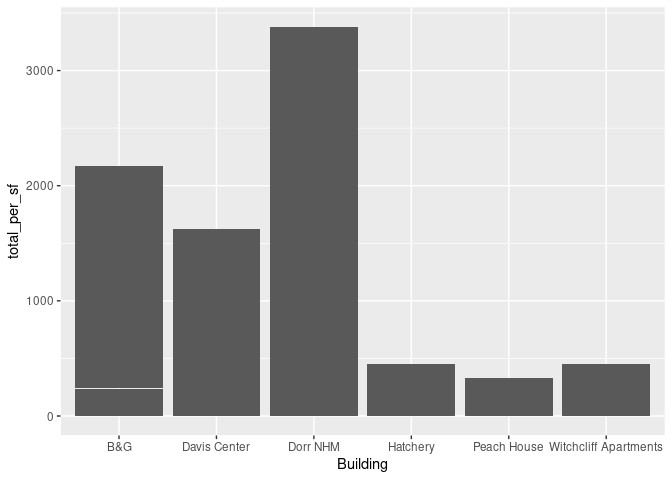
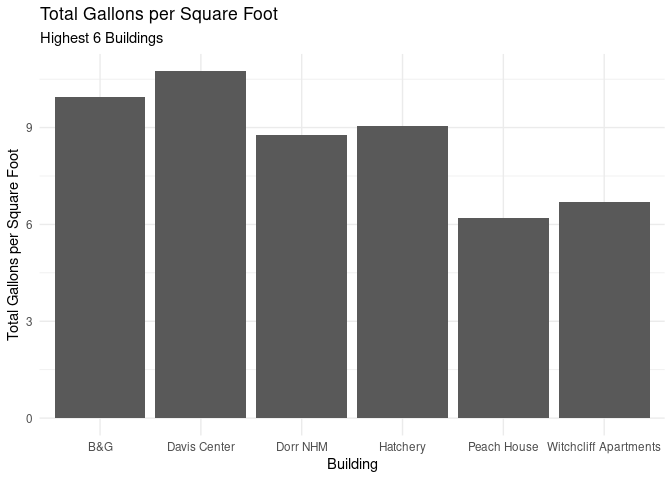
Fix total gallons per square foot graph

diff --git a/memo/memo.md b/memo/memo.md
@@ -652,8 +652,13 @@ fuels |>
 fuels |>
   filter(total_per_sf > 6) |>
   group_by(Building) |>
+  summarize(total_per_sf = unique(total_per_sf)) |>
   ggplot(aes(x = Building, y = total_per_sf)) +
-  geom_col()
+  geom_col() +
+  labs(title = "Total Gallons per Square Foot",
+       subtitle = "Highest 6 Buildings",
+       y = "Total Gallons per Square Foot") +
+  theme_minimal()
 ```
 
 ![](memo_files/figure-gfm/total_gallons_per_sf-1.png)<!-- -->
